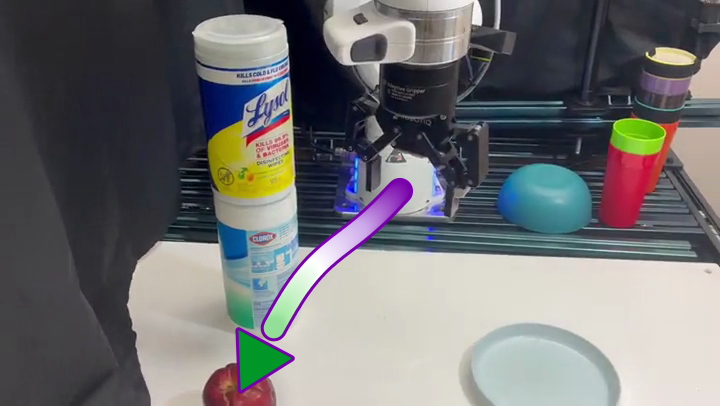
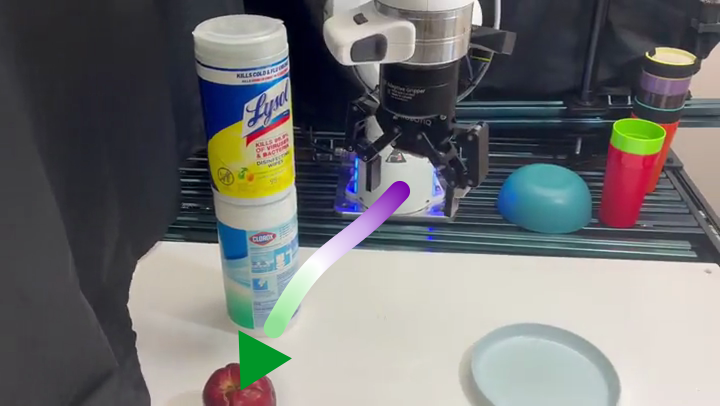
Remove borders from pre-projection CS-Pi arrows; add post-projection CS-Pi drawing tool

diff --git a/assets/hardware/frames/trajectory_tool_3.html b/assets/hardware/frames/trajectory_tool_3.html
@@ -1,0 +1,82 @@
+<!doctype html>
+<html><head><meta charset="utf-8"><title>Trajectory sketcher 3</title>
+<style>
+body{margin:0;font:14px system-ui,sans-serif;background:#1e1e1e;color:#eee}
+#bar{display:flex;gap:8px;align-items:center;padding:8px 12px;background:#2b2b2b;flex-wrap:wrap}
+button{padding:6px 12px;border:0;border-radius:4px;background:#444;color:#eee;cursor:pointer}
+button:hover{background:#666} button.primary{background:#c0392b}
+#wrap{padding:12px;text-align:center}
+canvas{max-width:100%;max-height:82vh;height:auto;cursor:crosshair;border:1px solid #555}
+#help{padding:0 12px 12px;color:#aaa}
+</style></head><body>
+<div id="bar">
+  <button id="prev">&larr; Prev</button><b id="title"></b><button id="next">Next &rarr;</button>
+  <button id="undo">Undo point (Z)</button><button id="clear">Clear this one</button>
+  <label><input type="checkbox" id="ghost" checked> show reference trajectories</label>
+  <button class="primary" id="export">Export waypoints JSON</button>
+</div>
+<div id="wrap"><canvas id="c"></canvas></div>
+<div id="help"><span id="note"></span><br>
+Click to add waypoints in order (start &rarr; end). Drag to move a point, right-click a point to delete it. Faded arrows are reference trajectories; the shared start point (white ring) is locked to the first trajectory. Progress autosaves in this browser; Export downloads <code>waypoints_post.json</code>.</div>
+<script>
+// Pre-projection CS-Pi trajectories you already drew (on this same frame).
+const PRE1=[[399.9, 191.1], [347, 198], [301.2, 214.9], [262.3, 262.7], [244.3, 327.4], [237.3, 368.2]];
+const PRE2=[[399.9, 191.1], [361, 231.9], [322.1, 254.7], [296.2, 287.6], [270.2, 334.4], [249.3, 374.2]];
+const TASKS=[
+ {name:"9_cspi_1_post",img:"8_cspi_base.png",title:"CS-Pi 1, after projection (trust_fail, 2 s)",
+  note:"Faded arrows = your two pre-projection trajectories (1 and 2). Draw the post-projection trajectory for CS-Pi 1.",
+  fixed:[{label:"pre 1",pts:PRE1},{label:"pre 2",pts:PRE2}]},
+ {name:"9_cspi_2_post",img:"8_cspi_base.png",title:"CS-Pi 2, after projection",share:"9_cspi_1_post",refs:["9_cspi_1_post"],
+  note:"Starts at the same point as post-projection 1. Faded arrows = the two pre-projection trajectories plus post-projection 1.",
+  fixed:[{label:"pre 1",pts:PRE1},{label:"pre 2",pts:PRE2}]}];
+const KEY="cspi_waypoints_post_v1";
+let data={};try{data=JSON.parse(localStorage.getItem(KEY)||"{}")}catch(e){}
+let cur=0,drag=-1;
+const imgs={};TASKS.forEach(t=>{if(!imgs[t.img]){const i=new Image();i.src=t.img;i.onload=draw;imgs[t.img]=i}});
+const cv=document.getElementById("c"),ctx=cv.getContext("2d"),T=()=>TASKS[cur];
+const byName=n=>TASKS.find(t=>t.name==n);
+const raw=n=>data[n]||(data[n]=[]);
+function pts(n){const t=byName(n),p=raw(n);
+  if(t.share){const l=raw(t.share);if(l.length){if(p.length)p[0]=l[0].slice();else p.push(l[0].slice())}}return p}
+const save=()=>{try{localStorage.setItem(KEY,JSON.stringify(data))}catch(e){}};
+const A=[255,175,175],B=[215,0,0],mix=t=>A.map((a,i)=>Math.round(a+(B[i]-a)*t));
+function spline(p,n=24){if(p.length<2)return p.slice();const out=[],P=[p[0],...p,p[p.length-1]];
+  for(let i=1;i<P.length-2;i++)for(let k=0;k<n;k++){const t=k/n,t2=t*t,t3=t2*t;
+    out.push([0,1].map(d=>0.5*((2*P[i][d])+(-P[i-1][d]+P[i+1][d])*t+(2*P[i-1][d]-5*P[i][d]+4*P[i+1][d]-P[i+2][d])*t2+(-P[i-1][d]+3*P[i][d]-3*P[i+1][d]+P[i+2][d])*t3)))}
+  out.push(p[p.length-1]);return out}
+function arrow(p,W,alpha){const s=spline(p);if(s.length<2)return;ctx.globalAlpha=alpha;
+  const L=[0];for(let i=1;i<s.length;i++)L.push(L[i-1]+Math.hypot(s[i][0]-s[i-1][0],s[i][1]-s[i-1][1]));
+  const tot=L[L.length-1],head=Math.min(W*2.6,tot*.4);ctx.lineCap="round";ctx.lineJoin="round";
+  for(let i=1;i<s.length;i++){if(L[i]>tot-head+1)break;ctx.strokeStyle=`rgb(${mix(L[i]/tot)})`;ctx.lineWidth=W;ctx.beginPath();ctx.moveTo(...s[i-1]);ctx.lineTo(...s[i]);ctx.stroke()}
+  const e=s[s.length-1];let q=e;for(let i=s.length-1;i>=0;i--){if(Math.hypot(e[0]-s[i][0],e[1]-s[i][1])>head*.6){q=s[i];break}}
+  const a=Math.atan2(e[1]-q[1],e[0]-q[0]),hw=W*1.5,c=Math.cos(a),n=Math.sin(a);
+  ctx.fillStyle=`rgb(${B})`;ctx.beginPath();ctx.moveTo(e[0]+c*head*.35,e[1]+n*head*.35);
+  ctx.lineTo(e[0]-c*head*.65-n*hw,e[1]-n*head*.65+c*hw);ctx.lineTo(e[0]-c*head*.65+n*hw,e[1]-n*head*.65-c*hw);ctx.fill();ctx.globalAlpha=1}
+function dot(q,r,fill,alpha=1){ctx.globalAlpha=alpha;ctx.fillStyle=fill;ctx.strokeStyle="#000";ctx.lineWidth=r/3;ctx.beginPath();ctx.arc(q[0],q[1],r,0,7);ctx.fill();ctx.stroke();ctx.globalAlpha=1}
+function draw(){const t=T(),im=imgs[t.img];if(!im.complete||!im.naturalWidth)return;
+  cv.width=im.naturalWidth;cv.height=im.naturalHeight;ctx.drawImage(im,0,0);const sc=cv.width/720;
+  document.getElementById("title").textContent=`${cur+1}/${TASKS.length}  ${t.title}`;
+  document.getElementById("note").textContent=t.note||"";
+  if(ghost.checked){
+    (t.fixed||[]).forEach(f=>{arrow(f.pts,9*sc,.55);f.pts.forEach(q=>dot(q,3*sc,"#9cf",.8))});
+    (t.refs||[]).forEach(n=>{const p=pts(n);arrow(p,9*sc,.5);p.forEach(q=>dot(q,3*sc,"#9cf",.8))})}
+  const p=pts(t.name);arrow(p,13*sc,1);
+  p.forEach((q,i)=>{if(i==0&&t.share){ctx.strokeStyle="#fff";ctx.lineWidth=2*sc;ctx.beginPath();ctx.arc(q[0],q[1],9*sc,0,7);ctx.stroke()}
+    dot(q,4.5*sc,i==0?"#fff":"#ffd400")})}
+const pos=e=>{const r=cv.getBoundingClientRect();return[(e.clientX-r.left)*cv.width/r.width,(e.clientY-r.top)*cv.height/r.height]};
+const hit=m=>{const sc=cv.width/720;return pts(T().name).findIndex(q=>Math.hypot(q[0]-m[0],q[1]-m[1])<10*sc)};
+const locked=i=>i==0&&T().share;
+cv.onmousedown=e=>{if(e.button)return;const m=pos(e),h=hit(m),p=pts(T().name);
+  if(h>=0){drag=locked(h)?-1:h}else{p.push(m);drag=p.length-1}save();draw()};
+cv.onmousemove=e=>{if(drag<0)return;pts(T().name)[drag]=pos(e);draw()};
+window.onmouseup=()=>{if(drag>=0){drag=-1;save()}};
+cv.oncontextmenu=e=>{e.preventDefault();const h=hit(pos(e));if(h>=0&&!locked(h)){pts(T().name).splice(h,1);save();draw()}};
+const go=d=>{cur=(cur+d+TASKS.length)%TASKS.length;draw()};
+prev.onclick=()=>go(-1);next.onclick=()=>go(1);
+undo.onclick=()=>{const p=pts(T().name);if(p.length>(T().share?1:0))p.pop();save();draw()};
+clear.onclick=()=>{data[T().name]=[];save();draw()};ghost.onchange=draw;
+onkeydown=e=>{if(e.key=="z")undo.onclick();if(e.key=="ArrowRight")go(1);if(e.key=="ArrowLeft")go(-1)};
+export_=document.getElementById("export");
+export_.onclick=()=>{const out={};TASKS.forEach(t=>{const p=pts(t.name);out[t.name+".png"]={image:t.img,points:p.map(q=>q.map(v=>Math.round(v*10)/10))}});
+  const a=document.createElement("a");a.href=URL.createObjectURL(new Blob([JSON.stringify(out,null,1)],{type:"application/json"}));a.download="waypoints_post.json";a.click()};
+</script></body></html>

diff --git a/assets/hardware/frames/render_trajectories.py b/assets/hardware/frames/render_trajectories.py
@@ -19,10 +19,11 @@ SCHEMES = {
     "7_": [LPURPLE, PURPLE],
     "6_": [LGREEN, GREEN],                                 # rejection: light green -> green
     "8_": [PURPLE, LPURPLE, rgb(255, 255, 255), LGREEN, GREEN],  # CS-Pi: purple -> white -> green
+    "9_": [PURPLE, LPURPLE, rgb(255, 255, 255), LGREEN, GREEN],
     "5_": [PURPLE, LPURPLE, rgb(255, 255, 255), LGREEN, GREEN],
 }
 # figures that get an outline around the arrow
-BORDER = {"3_projection_failure.png": PURPLE, "8_cspi_1.png": PURPLE, "8_cspi_2.png": PURPLE}
+BORDER = {"3_projection_failure.png": PURPLE, "9_cspi_1_post.png": PURPLE, "9_cspi_2_post.png": PURPLE}
 
 
 def grad(stops, t):
